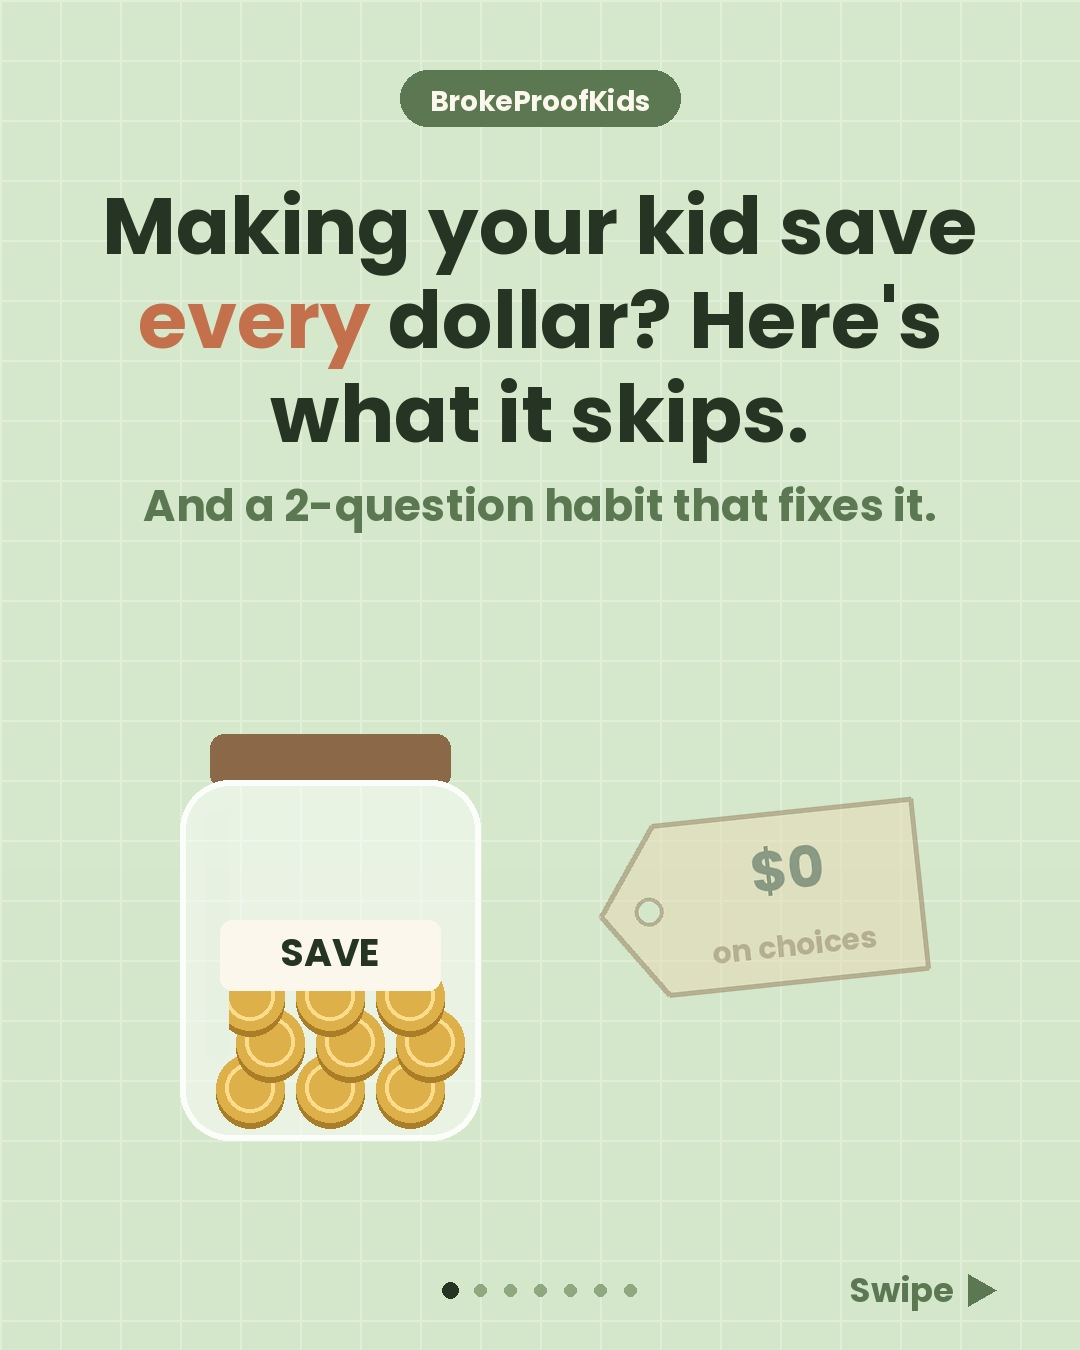
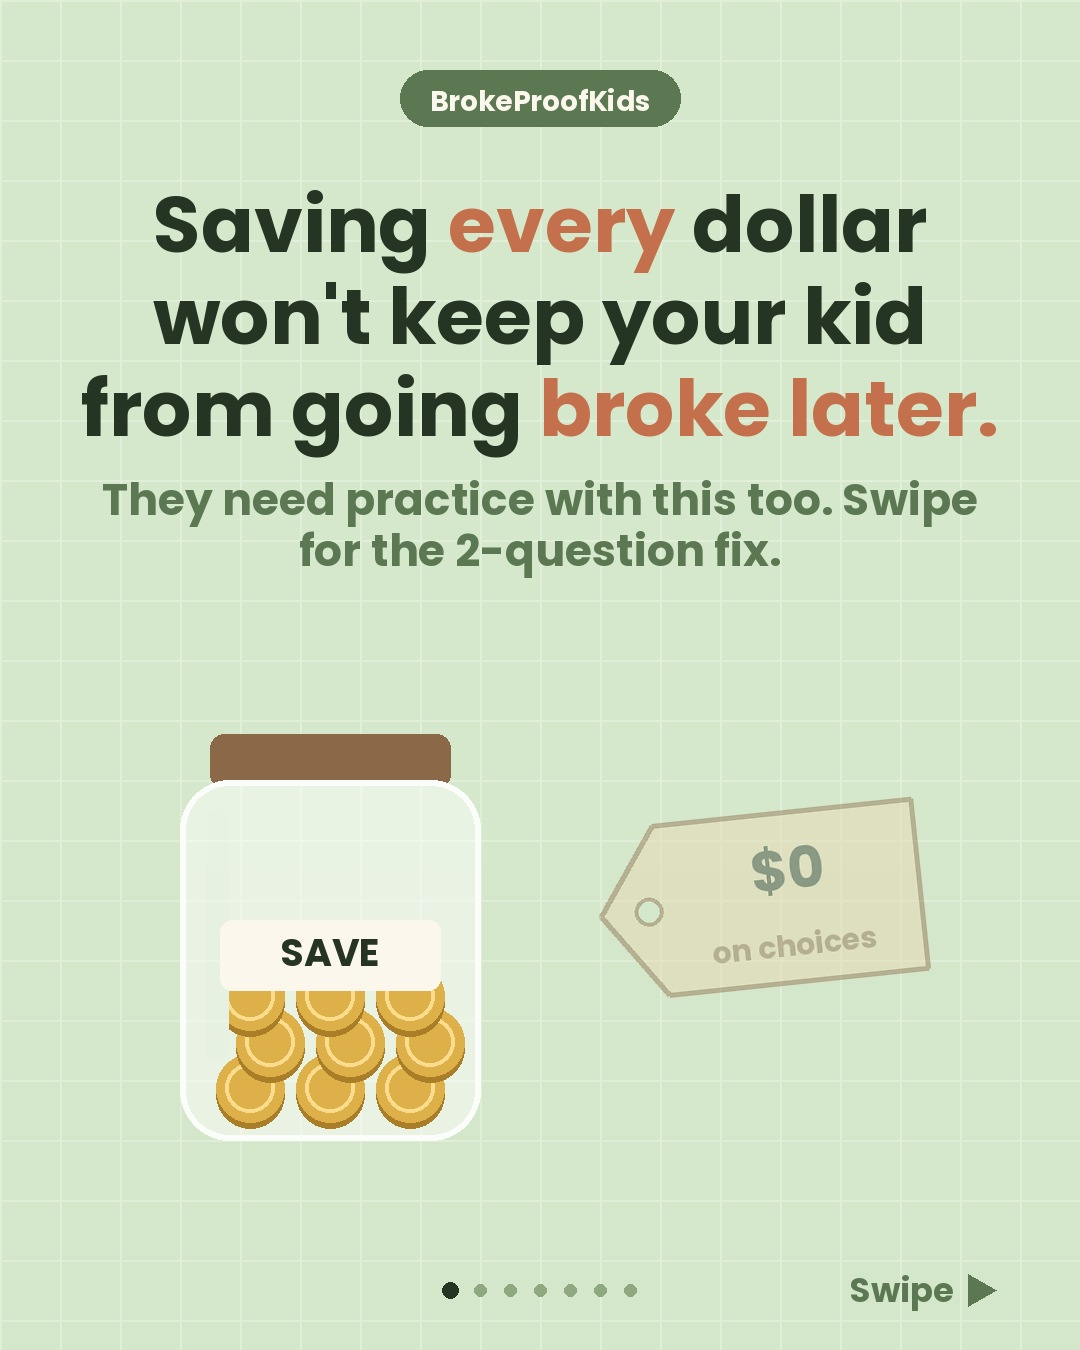
BrokeProofKids: stronger emotional hooks + follow CTA (C001 updated)
Claude-Session: https://claude.ai/code/session_01QnnJLQqgDYpjQiHFNV7mc2

Changed region(s): [[0.0611, 0.1244, 0.9167, 0.4356]]

diff --git a/bpk/tools/posts/C001_freechoice.py b/bpk/tools/posts/C001_freechoice.py
@@ -35,8 +35,8 @@ def d7(img):
     return cta_scene(img, 540, 1000)
 
 SPEC = {"id": "C001_freechoice", "slides": [
-    {"text": "Making your kid save *every* dollar? Here's what it skips.", "size": 80, "swipe": True,
-     "sub": "And a 2-question habit that fixes it.", "draw": d1},
+    {"text": "Saving *every* dollar won't keep your kid from going *broke later*.", "size": 78, "swipe": True,
+     "sub": "They need practice with this too. Swipe for the 2-question fix.", "draw": d1},
     {"kicker": "WHY IT MATTERS", "text": "Kids learn money by *making choices*.", "size": 74,
      "sub": "If every dollar is locked away, they never practice deciding what's worth it.", "draw": d2},
     {"kicker": "THE MISSING HALF", "text": "Saving is a skill. So is *spending well*.", "size": 74, "draw": d3},
@@ -46,6 +46,6 @@ SPEC = {"id": "C001_freechoice", "slides": [
      "sub": "Say they bought $3 of slime. No judging, just curious.", "draw": d5},
     {"kicker": "THE PAYOFF", "text": "Small regrets are *cheap lessons*.", "size": 78,
      "sub": "A $3 \"not worth it\" now teaches what a $3,000 one would later.", "draw": d6},
-    {"text": "Want more ways to make money lessons *hands-on*?", "size": 74,
-     "sub": "Explore our kids' money activity & coloring book through the link in our bio.", "draw": d7},
+    {"text": "Want your kid building *rich habits* now?", "size": 76,
+     "sub": "Get our kids' money activity & coloring book (link in bio) and *follow* *@kids_and_money_554* for a new lesson every day.", "draw": d7},
 ]}

diff --git a/bpk/tools/PLAN.md b/bpk/tools/PLAN.md
@@ -3,14 +3,16 @@
 | Date | Theme | Post | Mechanism | Problem | Hook | Payoff |
 |---|---|---|---|---|---|---|
 | Tue 10/20 7:30 PM | Teaching Kids to Save | Reel R001_seeit | 5 Transformation + 3 Specific problem | Kid quits saving after a few days | "Your kid gives up on saving after 3 days? Make the goal something they can see." | 30-box coloring tracker: color one box per $1 saved |
-| Wed 10/21 12 PM | Money Quotes | Carousel C001_freechoice | 2 Surprising contrast | Saving every dollar = no practice choosing | "Making your kid save every dollar? Here's what it skips." | Small free-choice share + 2 questions a week later |
-| Wed 10/21 7:30 PM | Money Quotes | Reel R002 | 6 Strong opinion | "Money doesn't grow on trees" ends the talk | "'Money doesn't grow on trees' teaches kids nothing. Say this instead." | Turn price into work: "That's 3 hours of mowing" — the hours-of-work translation |
-| Thu 10/22 7:30 PM | Digital Spending | Reel R003 | 3 Specific problem | Game-coin bundles leave leftovers that push the next buy | "Your kid needs 800 coins but the pack has 1,000? Here's the trick in that." (hypothetical numbers, labeled) | Teach "total cost to get the item" + check leftovers before buying |
-| Fri 10/23 12 PM | Real-Life Decisions | Carousel C002 | 8 Useful promise | Grocery trips = endless "can I have" | "A grocery-store game that teaches needs vs. wants in 10 minutes" | Kid gets $3 + a list; sorts needs/wants, makes one trade-off |
-| Fri 10/23 7:30 PM | Real-Life Decisions | Reel R004 | 7 Narrative tension | Parent picks for the kid | "$20. Two toys at $15 each. What should the parent do?" | 3 guiding questions; kid chooses, parent doesn't rescue |
-| Sat 10/24 7:30 PM | Money Myths | Reel R005 | 4 The mistake | "Too young to talk about money" | "Waiting until they're 'old enough' for money talks? They're already learning." | Age ladder: 4–6 coins & waiting, 7–10 goals, 11–13 budgets, 14–17 paychecks |
-| Sun 10/25 7:30 PM | Family Challenges | Reel R006 | 8 Useful promise | Money talk feels like a lecture | "A 5-minute dinner game that gets kids talking about money" | "Guess the price" game with real receipts; closest guess picks dessert |
-| Mon 10/26 12 PM | Allowance Mistake | Carousel C003 | 1 Curiosity | Allowance paid whenever parent remembers | "Why does your kid's allowance never seem to 'stick'?" | Fixed payday + written amount = predictable money to plan with |
-| Mon 10/26 7:30 PM | Allowance Mistake | Reel R007 | 4 The mistake | Paying for every chore | "Paying your kid for every chore? Here's the money lesson it can blur." | Split: family chores (unpaid) vs. extra jobs (paid) |
+| Wed 10/21 12 PM | Money Quotes | Carousel C001_freechoice | 2 Surprising contrast | Saving every dollar = no practice choosing | "Saving every dollar won't keep your kid from going broke later." | Small free-choice share + 2 questions a week later |
+| Wed 10/21 7:30 PM | Money Quotes | Reel R002 | 6 Strong opinion | "Money doesn't grow on trees" ends the talk | "Broke adults grew up hearing 'money doesn't grow on trees.' Say this instead." | Turn price into work: "That's 3 hours of mowing" — the hours-of-work translation |
+| Thu 10/22 7:30 PM | Digital Spending | Reel R003 | 3 Specific problem | Game-coin bundles leave leftovers that push the next buy | "Your kid isn't going broke at 25. It's starting now, one game-coin pack at a time." (hypothetical numbers, labeled) | Teach "total cost to get the item" + check leftovers before buying |
+| Fri 10/23 12 PM | Real-Life Decisions | Carousel C002 | 8 Useful promise | Grocery trips = endless "can I have" | "Rich habits don't start with a paycheck. They start in the grocery aisle." | Kid gets $3 + a list; sorts needs/wants, makes one trade-off |
+| Fri 10/23 7:30 PM | Real-Life Decisions | Reel R004 | 7 Narrative tension | Parent picks for the kid | "$20. Two toys at $15 each. How you handle this decides what your kid does with $2,000 later." | 3 guiding questions; kid chooses, parent doesn't rescue |
+| Sat 10/24 7:30 PM | Money Myths | Reel R005 | 4 The mistake | "Too young to talk about money" | "Waiting until they're 'old enough' to talk money? Their habits are already forming." | Age ladder: 4–6 coins & waiting, 7–10 goals, 11–13 budgets, 14–17 paychecks |
+| Sun 10/25 7:30 PM | Family Challenges | Reel R006 | 8 Useful promise | Money talk feels like a lecture | "Your kid can start building rich habits tonight, at the dinner table." | "Guess the price" game with real receipts; closest guess picks dessert |
+| Mon 10/26 12 PM | Allowance Mistake | Carousel C003 | 1 Curiosity | Allowance paid whenever parent remembers | "Allowance with no set payday? That's a broke-later habit in the making." | Fixed payday + written amount = predictable money to plan with |
+| Mon 10/26 7:30 PM | Allowance Mistake | Reel R007 | 4 The mistake | Paying for every chore | "Paying for every chore can teach a broke-later habit. Here's the fix." | Split: family chores (unpaid) vs. extra jobs (paid) |
 
 Stories (daily, plain frames, no link sticker): ~9:30 AM teaser of tonight's Reel; ~5:00 PM a quick question or tip frame pointing to "link in bio".
+
+All posts end with book CTA + follow CTA (USER UPDATE Oct 20).

diff --git a/bpk/tools/PRODUCTION.md b/bpk/tools/PRODUCTION.md
@@ -2,6 +2,12 @@
 
 The user's full brief is MASTER_PROMPT.txt in this folder. It is the top-level operating system. This file is the house method that implements it. Newest USER UPDATE blocks (add them at the top) win.
 
+## USER UPDATE Oct 20 (3:24 PM) — HOOK + CTA STYLE (overrides older hook guidance)
+User wants opening hooks that hit like: "Your kid doesn't become broke later, they become broke now" / "Your kid can build rich habits right now on their own". Every hook must be EMOTIONALLY STRONG + CURIOSITY-DRIVEN, framed around the child's future money life being shaped TODAY (broke-later vs habits-now, identity, stakes), and must still name the specific problem the post solves.
+- Hook formulas: "Broke adults start as kids who never learned ___." · "Your kid isn't going broke at 25. It's starting right now, with ___." · "The habit that keeps kids broke later shows up at age __: ___." · "Rich habits don't start with a paycheck. They start with ___." · "Your kid can start building rich habits today, with ___."
+- Honesty guardrails still apply: no promises that a kid will "be rich", no invented stats; "rich habits" / "broke habits" language is fine.
+- Every post ends with BOTH CTAs: the book ("Get our kids' money activity & coloring book, link in bio") AND follow ("Follow @kids_and_money_554 for a new money lesson every day"). Reels: last scene shows both. Carousels: last slide shows both. Captions: book CTA paragraph + follow line.
+
 ## Account + publishing (verified Oct 20, 2026)
 - Instagram: @kids_and_money_554 ("Kids & Money"), instagramPageId **17841440839365671**. Post ONLY here. Never post to Odds Visualized (17841423585967011), Money Mapped (17841413335234840), Unspoken at Work (17841420504964559) or any other account.
 - Publish via Zapier InstagramBusinessCLIAPI: Reels = `publish_video` (tool instagram_for_business_publish_video); carousels = `publish_media_v2` (tool instagram_for_business_publish_photo_s); Stories = Make API Mutating Request: POST https://graph.facebook.com/v19.0/17841440839365671/media with querystring media_type=STORIES & image_url=<raw url>, then POST .../media_publish with creation_id.
